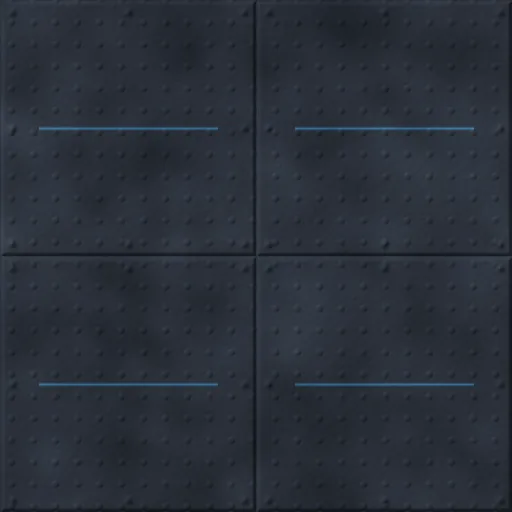
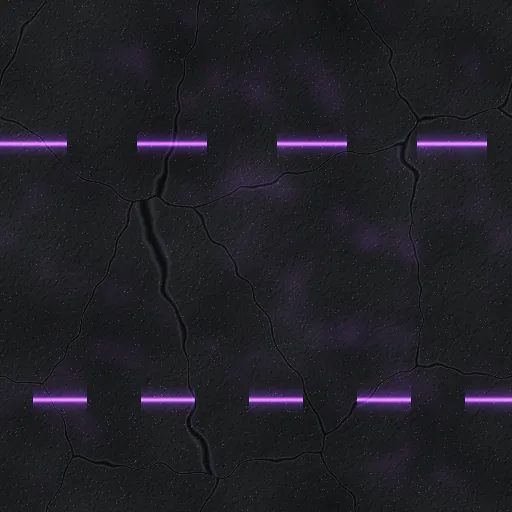
art(ground): Bolt is night-city asphalt with violet neon; Dawn is golden brick
Owner's notes: Bolt is an electric city, not a deck of steel plates, and
Dawn should be golden bricks rather than cracked flagstones.

- Bolt: dark neutral asphalt (aggregate grain, a scatter of lighter stones,
  tar-sealed cracks), a wet violet sheen as if catching signage, and two
  glowing violet lane dashes. Kept grey so it does not read as Dusk.
- Dawn: running-bond golden bricks, 4 x 10 per texture so it tiles, each
  brick its own fire of gold, bevelled shoulders and dark recessed mortar.

Regenerated with tools/make-grounds.py; the other six are byte-identical.

diff --git a/tools/make-grounds.py b/tools/make-grounds.py
@@ -174,25 +174,33 @@ def gale():
     save("gale", a * 0.82)
 
 
-# ── BOLT: steel deck plates ──────────────────────────────────────────────────
+# ── BOLT: city asphalt under violet neon ─────────────────────────────────────
 def bolt():
+    # Fine aggregate: high-frequency grain, a scatter of lighter stones, and
+    # broad wear so no tile reads as a flat colour.
+    grain = noise(16, 1.0, power=0.2)
+    wear = noise(17, 70, power=0.5)
+    h = grain * 0.6 + noise(19, 3, power=0.6) * 0.4
+    r = np.random.default_rng(16)
+    stones = np.zeros((N, N))
+    ys, xs = r.integers(0, N, (2, 2600))
+    stones[ys, xs] = r.uniform(0.4, 1.0, 2600)
+    base = ramp(wear, [(0, (22, 23, 25)), (1, (38, 39, 42))])
+    a = shade(base, lit(h, 2.5), 0.6)
+    a += stones[..., None] * np.array([42, 42, 44])
+    # Tar-sealed cracks: dark, a touch glossy along the edge.
+    e = cracks(18, 7)
+    tar = np.exp(-(e / 1.6) ** 2)
+    a = a * (1 - tar[..., None] * 0.6) + np.exp(-((e - 2.6) / 0.9) ** 2)[..., None] * np.array([16, 16, 20])
+    # Neon: wet sheen catching violet signage, and a couple of glowing dashes.
+    sheen = np.clip(noise(20, 40, power=0.7) * 1.6 - 0.9, 0, 1) ** 1.5
+    a += sheen[..., None] * np.array([70, 30, 110]) * 0.5
     yy, xx = np.mgrid[0:N, 0:N].astype(float)
-    P = N / 2
-    u, v = xx % P, yy % P
-    seam = np.minimum(np.minimum(u, P - u), np.minimum(v, P - v))
-    h = 0.6 + 0.12 * noise(16, 4, power=0.6)
-    tread = np.clip(np.sin((xx + yy) / 7.0) * np.sin((xx - yy) / 7.0) * 3 - 2.2, 0, 1)
-    h = h + tread * 0.25 - np.exp(-(seam / 2.2) ** 2) * 0.6
-    for cx in (12, P / 2, P - 12):
-        for cy in (12, P / 2, P - 12):
-            if cx == P / 2 and cy == P / 2:
-                continue
-            h += np.exp(-(np.hypot(u - cx, v - cy) / 3.2) ** 2) * 0.45
-    base = ramp(noise(17, 60, power=0.5), [(0, (40, 46, 56)), (1, (58, 66, 78))])
-    a = shade(base, lit(h, 3.5), 0.5)
-    trace = np.exp(-(np.abs(v - P / 2) / 1.3) ** 2) * (np.abs(u - P / 2) < P * 0.35)
-    a += trace[..., None] * np.array([20, 120, 170]) * 0.55
-    a *= (0.78 + 0.3 * noise(18, 40, power=0.6))[..., None]
+    for y0, dash in ((N * 0.28, 70), (N * 0.78, 54)):
+        on = ((xx + y0) % (dash * 2)) < dash
+        d = np.abs(((yy - y0 + N / 2) % N) - N / 2)
+        a += (np.exp(-(d / 2.0) ** 2) * on)[..., None] * np.array([170, 90, 255]) * 1.1
+        a += (np.exp(-(d / 9) ** 2) * on)[..., None] * np.array([70, 24, 120]) * 0.6
     save("bolt", a)
 
 
@@ -229,14 +237,30 @@ def dusk():
     save("dusk", a * 0.9)
 
 
-# ── DAWN: sun-warmed golden flagstones ───────────────────────────────────────
+# ── DAWN: golden bricks ──────────────────────────────────────────────────────
 def dawn():
-    e = cracks(29, 14)
-    joint = np.exp(-(e / 1.7) ** 2)
-    h = noise(30, 3, power=0.8) * 0.5 + 0.5 - joint * 0.7
-    base = ramp(noise(31, 35, power=0.6), [(0, (92, 70, 34)), (0.5, (118, 92, 46)), (1, (140, 112, 58))])
-    a = shade(base, lit(h, 4), 0.5) * (1 - joint[..., None] * 0.55)
-    save("dawn", a * 0.74)
+    rows, cols = 10, 4            # whole bricks per texture, so it tiles
+    BH, BW = N / rows, N / cols
+    yy, xx = np.mgrid[0:N, 0:N].astype(float)
+    row = np.floor(yy / BH)
+    shift = (row % 2) * BW / 2    # running bond: every other course offset
+    col = np.floor(((xx + shift) % N) / BW)
+    u = ((xx + shift) % N) - col * BW
+    v = yy - row * BH
+    edge = np.minimum(np.minimum(u, BW - u), np.minimum(v, BH - v))
+    mortar = np.clip(1 - (edge - 1.5) / 2.0, 0, 1)  # ~2-3px joints
+    bevel = np.clip(edge / 7, 0, 1) ** 0.6           # rounded brick shoulders
+    # Per-brick colour: hash the brick's index so each one is a slightly
+    # different fire of gold.
+    k = (row * 7919 + col * 104729) % 9973
+    tone = (np.sin(k * 12.9898) * 43758.5453) % 1.0
+    h = bevel * 0.7 + noise(30, 2, power=0.6) * 0.3 - mortar * 0.5
+    brick = ramp(tone * 0.7 + noise(31, 30, power=0.6) * 0.3,
+                 [(0, (150, 104, 30)), (0.5, (184, 138, 44)), (1, (212, 168, 66))])
+    a = shade(brick, lit(h, 5), 0.5)
+    a = a * (1 - mortar[..., None]) + mortar[..., None] * np.array([40, 28, 16])
+    a *= (0.8 + 0.3 * noise(32, 80, power=0.4))[..., None]  # soot and sun
+    save("dawn", a * 0.66)
 
 
 ALL = (leaf, pyro, aqua, gale, bolt, bore, dusk, dawn)
